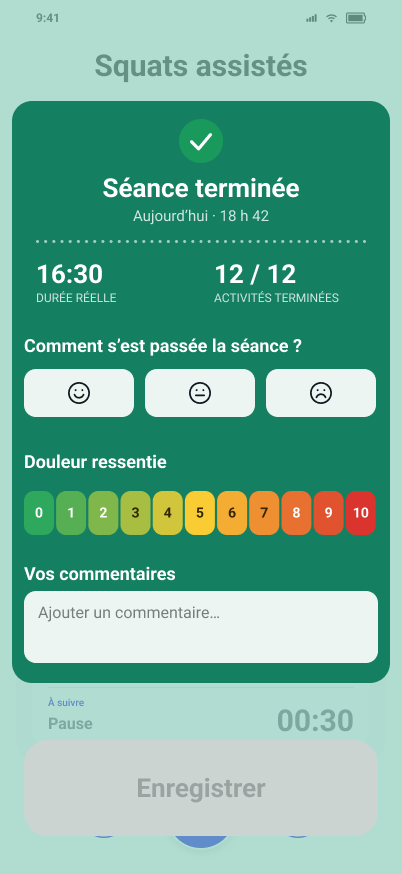
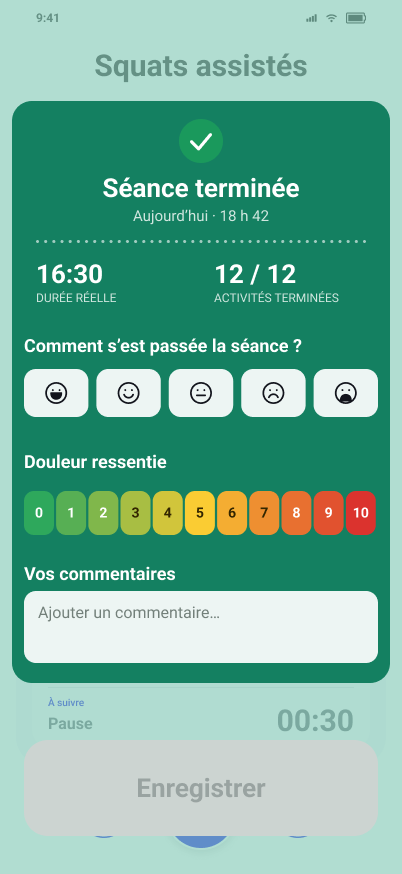
docs(D-579): ressenti à cinq niveaux sur l'écran de fin de séance
Classe B. Tests non applicables.

Claude-Session: https://claude.ai/code/session_0138cCmJPZqMKdiqcqtCSEpU

diff --git a/docs/Specifications-fonctionnelles/07 – Registre des décisions de conception.md b/docs/Specifications-fonctionnelles/07 – Registre des décisions de conception.md
@@ -2440,7 +2440,8 @@ Source : [KODJO-Catalogues-cartes-modales-2026-11-06](../KODJO-Catalogues-cartes
 | D-575 | **Pages des formats Tabata, 30/30, HIIT et Renforcement ; modale du Renforcement.** (1) Tabata, 30/30, HIIT : colonne « Objectif » renommée « Intervalle » ; la Durée totale est la dernière ligne du cadre des paramètres (après Exécution et, pour le Tabata à la suite, après « Récupération entre les mouvements ») ; la colonne Charge disparaît : la charge est écrite sous la valeur de l'intervalle, en plus petit et entre parenthèses, et rien n'est affiché quand il n'y a pas de charge. (2) Renforcement : même règle pour la charge (sous la valeur de la colonne Objectif) ; la Durée totale vient après la ligne Exécution ; la première colonne du tableau est « Séries » (nombre de séries de chaque mouvement) ; la ligne globale « Nombre de séries » est supprimée de la page. (2 bis) Death by : la charge est écrite sous la valeur de la colonne Départ, comme au point 1, et la colonne Charge disparaît. (2 ter) Dans les tableaux de ces formats, la dernière colonne est alignée à droite. (3) Modale « Paramètres d'exécution » du Renforcement : un premier cadre porte le Mode seul ; un deuxième réunit Nombre de répétitions, Nombre de séries, Pause et Charge ; un troisième De chaque côté + Cadence (D-572). (3 bis) Renforcement, nombre de séries : « À la suite », chaque mouvement a son propre nombre de séries ; « En alternance », les mouvements partagent les tours : le nombre de séries est commun et lié (le modifier pour un mouvement le modifie pour tous, dans le tableau comme dans la modale) ; le passage à « À la suite » conserve la valeur actuelle de chaque mouvement, qui peuvent ensuite différer. (4) Zone de contexte (Composition) : la durée totale est alignée à droite, en noir, au premier plan, par-dessus l'emplacement de l'illustration ; Progression : Durée totale après Exécution. Décisions de Hermann, 26/11/2026 ; la ligne Pause de la modale porte la colonne Pause de la page. | Validée — 26/11/2026 | [KODJO-Formats-entrainement-2026-11-02](../KODJO-Formats-entrainement-2026-11-02.md) § 9.10 |
 | D-576 | **Exécution d'un exercice : permutation des vues et changement de média.** (1) Un glissé horizontal (gauche ou droite) sur la zone du haut permute cadran ↔ gros chiffres ; sur la zone du bas (carte des informations ou média) il permute infos ↔ média. (2) Aucun écran d'exécution ne comporte de bouton ⇄ (retirés partout dans Figma le 26/11/2026) : la permutation des vues se fait uniquement par le glissé. [Remplace le bouton de changement de face de D-203 et la proposition du 26/11/2026 de deux boutons ⇄.] (3) Le glissé ne change plus de média : le changement de média se fait avec des flèches gauche/droite sur la zone média ; la galerie reste à plusieurs médias, ordre de la galerie, non circulaire, flèche inactive à la borne, pagination conservée. (4) Le média reste à la taille du demi-écran tant que le bouton d'extension n'est pas actionné ; les flèches de changement de média existent aussi en plein écran. Décisions de Hermann, 26/11/2026. | Validée — 26/11/2026 | [CONCEPTION-EXECUTION-MEDIA](../CONCEPTION-EXECUTION-MEDIA.md) § 5 |
 | D-577 | **Écran « Avant la séance » (affiché avant l'écran d'exécution avec le compte à rebours).** (1) Contenu : en-tête DSF avec bouton Retour et, pour titre, le nom de la séance (pas de zone de contexte, pas de trait de séparation) ; liste en lignes de texte, sans rail ni cartes (ce n'est pas une copie de la composition), des exercices, cycles et circuits qui vont être exécutés, dans l'ordre de la composition, avec le format de chaque circuit mis en évidence (chiffre en premier : « 8 tours · TABATA » (nom du format en majuscules, pour qu'on voie bien quel format est utilisé ; « Circuit libre » quand le circuit n'a pas de format), « 3 tours · Circuit libre », « 2 cycles » ; sans le détail des durées ni la nature groupées/alternées) ; bouton Commencer. (2) Lancement dans un Programme dont l'option douleur est active (D-427) : échelle de douleur 0–10 (libellé « Douleur ressentie avant la séance », sans légende : les cases 0 à 10 sont colorées du vert au rouge selon leur niveau, les couleurs suffisant à indiquer le sens de l'échelle) obligatoire, sans présélection, Le bouton de départ est inactif tant qu'aucun chiffre n'est choisi ; l'écran est toujours affiché. (3) Autre lancement : pas d'échelle de douleur ; une case à cocher « Ne plus afficher cet écran » est proposée, uniquement dans ce cas, en plus petit, hors du cadre vert, entre le cadre de la liste et celui de la douleur. Elle désactive l'affichage de l'écran pour cette séance seulement, jusqu'à ce que l'ordre ou le contenu de la séance (exercices, cycles, circuits, formats) change ; un changement des paramètres d'exécution (durées, répétitions) ne le fait pas réapparaître. Pour toutes les séances, le réglage « Afficher l'écran de démarrage de séance » (interrupteur, activé par défaut, premier réglage du groupe Séance de Profil › Préférences) affiche l'écran pour toute séance ; désactivé, il ne l'affiche pour aucune. La capture de la douleur ne dépend que du Programme (option douleur, D-427) et n'est pas concernée : les deux informations (liste de la séance, douleur) sont distinctes ; avec l'option douleur active, ni la case ni le réglage ne suppriment la capture : quand l'affichage est désactivé, seule la douleur est demandée : même écran, avec uniquement le deuxième cadre (douleur et départ), centré verticalement sur la page. [Remplace la mention « Facultatif. Sans réponse, la douleur est notée 0 » de l'ancienne version de l'écran, contraire à D-427.] (4) Parcours de plusieurs séances : l'écran existe en deux versions, une pour la première séance, une pour les suivantes (rang ≥ 2, écran de transition avant la séance suivante). La douleur est demandée une seule fois, sur la version de la première séance, et appliquée à toutes les séances du parcours ; la version des séances suivantes n'a pas d'échelle de douleur. Cette version est dessinée dans l'écran Figma « Exécution d'une séance — Initial — Enchaînement (proposition) » (`12716:25405`), qui reprend la présentation de l'écran de la première séance sans l'échelle de douleur (un seul grand cadre vert centré dans la page, contenant le titre, la liste et le bouton « Appuyer pour démarrer la 2ème séance » ; sans « du parcours »), sur le voile vert. (5) Présentation : le premier écran d'exécution de la séance est visible en fond, recouvert sur toute la hauteur du voile vert de l'écran de transition entre séances (DSF-AGENDA), identique à celui de l'écran de transition (même teinte, ≈ 35 %), posé sur un voile blanc à 50 % qui estompe l'écran d'exécution sans assombrir le vert ; le nom n'est pas affiché dans l'en-tête, il l'est comme titre de la carte ; le contenu est porté par une carte blanche, le bouton Retour DSF restant au-dessus du voile. La liste est présentée en une seule taille de texte agrandie (22 pt pour cycles, circuits, formats et exercices ; le titre « Mobilisation du genou » reste à sa taille propre, 26 pt), avec un espace supplémentaire avant chaque bloc circuit ou format (ex. Tabata), les cycles, circuits et formats se distinguant par le gras, sur une carte vert foncé (celui de l'encadré de la transition entre séances) aux textes blancs, avec une indentation par niveau (cycle, circuit, exercices du circuit) ; le titre de la carte (nom de la séance, ou du parcours : « Mobilisation du genou » dans l'écran) est affiché en plus grand, en gras, centré, avec davantage d'espace au-dessus et en dessous, à égale distance du haut du cadre et d'une ligne de pointillés blancs qui le sépare de la liste ; si le titre est trop long, il passe sur deux lignes ; si la liste est plus longue, la carte s'étend vers le haut (le bas reste ancré au-dessus de la carte douleur et départ) ; si elle dépasse encore la hauteur disponible, seule la liste défile, le titre restant toujours visible ; la douleur et Commencer sont sur une carte distincte, en bas de l'écran, de même vert foncé, libellé (gras, 22 pt comme les cycles et circuits) et légende en blanc. Les textes de la liste, de l'échelle de douleur et du bouton de départ sont en Roboto. Chaque exercice de la liste, hors le premier mis en avant, est précédé d'un petit point de liste. (6) Bouton de départ, de hauteur doublée (96 pt) et à texte agrandi : « Appuyer pour démarrer la séance » (séance lancée seule), « Appuyer pour démarrer le parcours » (première séance d'un parcours), « Appuyer pour démarrer la Xème séance du parcours » (séances suivantes), en texte agrandi sur deux lignes, sur fond blanc avec texte bleu du DSF et un effet de relief porté par le bouton lui-même (léger dégradé et bord inférieur épais, sans ombre portée) qui le fait lire comme un bouton (le bouton bleu standard manque de contraste sur le vert). Le chiffre choisi ressort par une case nettement plus grande (≈ 40 × 58 pt), un chiffre plus gros et une ombre portée, sans liseré. Avec l'échelle de douleur, il est inactif tant qu'aucun chiffre n'est choisi ; état inactif (Figma `13419:1329`) : bouton sur fond gris, sans relief, texte gris plus clair ; toutes les cases de l'échelle de même taille, aucune sélectionnée ; l'écran Figma le montre activé, douleur choisie. Décisions de Hermann, 27/11/2026. | Validée — 27/11/2026 | Figma « P-Avant la séance — Douleur » (`8921:35275`) et « Enchaînement (proposition) » (`12716:25405`) ; ch13 CE-EXEC-SESSION-01 ; rendu : `docs/DSF-AVANT-SEANCE-2026-11-27.md` |
-| D-578 | **Écran de fin de séance, état initial (Terminée — évaluation initiale).** Présentation reprise de l'écran « Avant la séance » (D-577) : l'écran d'exécution de la séance en fond sous les deux voiles (blanc 50 %, vert `#1F9E7A` 35 %), polices Roboto. **Un seul cadre vert** `#148061` aux textes blancs, de haut en bas : symbole de séance terminée (identique à l'icône « Complétée » de l'Agenda, 44 pt), « Séance terminée », date et heure, ligne de pointillés blancs, durée réelle et activités terminées (« 12 / 12 »), « Comment s'est passée la séance ? » avec les trois boutons de ressenti, « Douleur ressentie » (échelle 0 à 10 colorée, D-577), « Vos commentaires » (champ facultatif). Les trois titres de rubrique (ressenti, douleur, commentaires) ont la même taille (Roboto Bold 18). Le bouton Enregistrer est **hors du cadre**, à sa taille (354 × 96) et sa position standard ; inactif (fond gris, texte plus clair) tant qu'aucun ressenti n'est choisi. La douleur n'est demandée que si le programme l'active (D-427) ; sinon elle disparaît du cadre. Le nom de la séance et le détail de la liste des exercices réalisés sont retirés. Pas de bouton Retour. Les autres états de la synthèse (ressenti sélectionné, séance partielle) sont à décliner sur cette présentation. | Validée — 27/11/2026 | Figma « P-Synthèse de séance — Terminée — Évaluation initiale » (`1992:8718`) ; ch13 CE-UI-08 |
+| D-578 | **Écran de fin de séance, état initial (Terminée — évaluation initiale).** Présentation reprise de l'écran « Avant la séance » (D-577) : l'écran d'exécution de la séance en fond sous les deux voiles (blanc 50 %, vert `#1F9E7A` 35 %), polices Roboto. **Un seul cadre vert** `#148061` aux textes blancs, de haut en bas : symbole de séance terminée (identique à l'icône « Complétée » de l'Agenda, 44 pt), « Séance terminée », date et heure, ligne de pointillés blancs, durée réelle et activités terminées (« 12 / 12 »), « Comment s'est passée la séance ? » avec cinq boutons de ressenti, sans libellé, à visages distincts (très bien, bien, neutre, mal, très mal ; du plus positif au plus négatif), « Douleur ressentie » (échelle 0 à 10 colorée, D-577), « Vos commentaires » (champ facultatif). Les trois titres de rubrique (ressenti, douleur, commentaires) ont la même taille (Roboto Bold 18). Le bouton Enregistrer est **hors du cadre**, à sa taille (354 × 96) et sa position standard ; inactif (fond gris, texte plus clair) tant qu'aucun ressenti n'est choisi. La douleur n'est demandée que si le programme l'active (D-427) ; sinon elle disparaît du cadre. Le nom de la séance et le détail de la liste des exercices réalisés sont retirés. Pas de bouton Retour. Les autres états de la synthèse (ressenti sélectionné, séance partielle) sont à décliner sur cette présentation. | Validée — 27/11/2026 | Figma « P-Synthèse de séance — Terminée — Évaluation initiale » (`1992:8718`) ; ch13 CE-UI-08 |
+| D-579 | **Ressenti de séance à cinq niveaux (très bien, bien, neutre, mal, très mal).** Le choix du ressenti passe de trois à cinq niveaux, chacun avec un visage distinct (sourire ouvert, sourire, neutre, moue, bouche ouverte triste), sans libellé. Appliqué pour l'instant à l'écran de fin de séance (D-578). À CLARIFIER : extension aux autres écrans de synthèse, au composant de ressenti du Design system, aux cartes du flux et à la donnée enregistrée (aujourd'hui trois valeurs). | Validée — 27/11/2026 (écran de fin de séance) ; extension à arbitrer | Figma « P-Synthèse de séance — Terminée — Évaluation initiale » (`1992:8718`) |
 
 
 

diff --git a/.github/orchestration/reports/2026-11-18_PLANIF-GRILLE-DOC.md b/.github/orchestration/reports/2026-11-18_PLANIF-GRILLE-DOC.md
@@ -356,3 +356,4 @@
 - Complément (suite 22 ter, D-578) : fin de séance 1992:8718, nom de la séance retiré du cadre 1 ; intitulé de la douleur « Douleur ressentie ». Classe B ; tests non applicables.
 - Complément (suite 22 quater, D-578) : fin de séance 1992:8718 en un seul cadre vert (synthèse, ressenti, douleur, commentaire) ; Enregistrer hors cadre, taille/position standard. Classe B ; tests non applicables.
 - Complément (suite 22 quinquies, D-578) : fin de séance 1992:8718, titres « Comment s'est passée la séance ? » et « Douleur ressentie » à la taille de « Vos commentaires » (Roboto Bold 18). Classe B ; tests non applicables.
+- Complément (suite 22 sexies, D-579) : fin de séance 1992:8718, ressenti à cinq niveaux avec cinq visages distincts ; extension aux autres écrans, au composant DS et à la donnée à arbitrer. Classe B ; tests non applicables.
